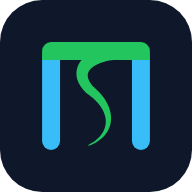
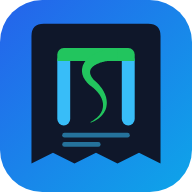
Cập nhật trang tải về v1.0.13

diff --git a/app/index.html b/app/index.html
@@ -366,6 +366,8 @@ img.tile{object-fit:cover;background:var(--surface-2)}
   'use strict';
   var COLORS = { leaf: '#22C55E', legsOnLight: '#2563EB', legsOnDark: '#38BDF8', navy: '#0F172A' };
   var BAR = 'M28 58 V46 A12 12 0 0 1 40 34 H160 A12 12 0 0 1 172 46 V58 Z';
+  // Receipt-shaped tile (logo v2: "Hoa don"), drawn in a 200x200 box; the M-T-S mark sits inside at 70%.
+  var BILL = 'M16 22Q16 6 32 6H168Q184 6 184 22V188L156 174L128 188L100 174L72 188L44 174L16 188Z';
 
   function bez(p, t) {
     var u = 1 - t;
@@ -403,12 +405,14 @@ img.tile{object-fit:cover;background:var(--surface-2)}
   // Static logo. theme: 'light' (blue legs) or 'dark' (light-blue legs).
   function svg(opts) {
     opts = opts || {};
-    var legs = opts.theme === 'dark' ? COLORS.legsOnDark : COLORS.legsOnLight;
+    var legs = COLORS.legsOnDark;   // the navy receipt tile is dark in every theme
     var size = opts.size || 40, label = opts.label || 'Missing';
+    var lines = size >= 48 ? '<rect x="56" y="148" width="88" height="6" rx="3" fill="#38BDF8" opacity=".55"/><rect x="56" y="160" width="50" height="6" rx="3" fill="#38BDF8" opacity=".55"/>' : '';
     return '<svg xmlns="http://www.w3.org/2000/svg" viewBox="0 0 200 200" width="' + size + '" height="' + size +
-      '" role="img" aria-label="' + label + '"><g transform="translate(0 -6)">' +
+      '" role="img" aria-label="' + label + '"><path d="' + BILL + '" fill="' + COLORS.navy + '"/>' +
+      '<g transform="translate(30 18) scale(.7)"><g transform="translate(0 -6)">' +
       legPath(40, legs) + legPath(160, legs) +
-      '<path d="' + BAR + '" fill="' + COLORS.leaf + '"/><path d="' + S_D + '" fill="' + COLORS.leaf + '"/></g></svg>';
+      '<path d="' + BAR + '" fill="' + COLORS.leaf + '"/><path d="' + S_D + '" fill="' + COLORS.leaf + '"/></g></g>' + lines + '</svg>';
   }
 
   /* ---------- Sound logo (Web Audio, synthesised, no files) ----------
@@ -486,6 +490,9 @@ img.tile{object-fit:cover;background:var(--surface-2)}
     tone(220, T(1660), 0.5, 0.1, 'triangle', 330);
     spin(T(1380), 0.9, 0.12); spin(T(1680), 0.85, 0.1);       // bars spin back
     tone(330, T(2550), 0.18, 0.08, 'sine');                   // bars land: little tick
+    whoosh(T(2500), 0.36, 3400, 900, 0.16);                   // receipt slides out of the printer
+    tone(2200, T(2900), 0.05, 0.05, 'square');                // two lines print
+    tone(2400, T(3050), 0.05, 0.05, 'square');
     // signature: two rising notes; the voice "Mít xinh!" follows, then a soft chord
     bell(659.25, T(2700), 0.22, 0.5);    // E5
     bell(783.99, T(2860), 0.24, 0.6);    // G5
@@ -567,10 +574,15 @@ img.tile{object-fit:cover;background:var(--surface-2)}
     overlay.setAttribute('aria-hidden', 'true');
     overlay.style.cssText = 'position:fixed;inset:0;z-index:2147483647;display:grid;place-items:center;' +
       'background:' + (opts.background || COLORS.navy) + ';cursor:pointer;';
-    var size = Math.min(240, Math.round(Math.min(innerWidth, innerHeight) * 0.42));
+    var size = Math.min(280, Math.round(Math.min(innerWidth, innerHeight) * 0.5));
     overlay.innerHTML =
-      '<svg viewBox="0 0 200 200" width="' + size + '" height="' + size + '" style="overflow:visible;transform-origin:0 0">' +
-      '<g transform="translate(0 -6)"><g class="mi-shake">' +
+      '<svg viewBox="-42.857 -25.714 285.714 285.714" width="' + size + '" height="' + size + '" style="overflow:visible;transform-origin:0 0">' +
+      '<g transform="translate(0 -6)">' +
+      '<g class="mi-bill" opacity="0"><g transform="translate(0 6) scale(1.428571) translate(-30 -18)">' +
+      '<path class="mi-billbg" d="' + BILL + '" fill="#1E293B" stroke="#38BDF8" stroke-opacity=".35" stroke-width="1.5"/>' +
+      '<rect class="mi-l1" x="56" y="148" width="88" height="6" rx="3" fill="#38BDF8" opacity="0"/>' +
+      '<rect class="mi-l2" x="56" y="160" width="50" height="6" rx="3" fill="#38BDF8" opacity="0"/>' +
+      '</g></g><g class="mi-shake">' +
       '<g class="mi-legL"><path class="mi-trailL" d="M-136 111.5 H-36" fill="none" stroke="' + legsIntro + '" stroke-width="4" stroke-linecap="round" stroke-dasharray="30 12"/>' +
       '<g class="mi-spinL">' + legPath(40, legsIntro) + '</g></g>' +
       '<g class="mi-legR"><path class="mi-trailR" d="M236 111.5 H336" fill="none" stroke="' + legsIntro + '" stroke-width="4" stroke-linecap="round" stroke-dasharray="30 12"/>' +
@@ -591,7 +603,7 @@ img.tile{object-fit:cover;background:var(--surface-2)}
       wordText.style.cssText = 'display:inline-block;white-space:nowrap;line-height:1.3;color:#F8FAFC;transform-origin:0 0;' +
         'padding-left:' + Math.round(size * 0.04) + 'px;font-family:' + ws.fontFamily + ';font-weight:' + ws.fontWeight +
         ';letter-spacing:' + (ws.letterSpacing === 'normal' ? '0' : (parseFloat(ws.letterSpacing) / parseFloat(ws.fontSize)) + 'em') +
-        ';font-size:' + Math.round(size * 0.42) + 'px;';
+        ';font-size:' + Math.round(size * 0.34) + 'px;';
       wordBox.appendChild(wordText);
       row.appendChild(wordBox);
     }
@@ -603,14 +615,15 @@ img.tile{object-fit:cover;background:var(--surface-2)}
       if (fit < 1) {
         var svgEl = row.firstChild;
         svgEl.setAttribute('width', Math.round(size * fit)); svgEl.setAttribute('height', Math.round(size * fit));
-        wordText.style.fontSize = Math.round(size * 0.42 * fit) + 'px';
+        wordText.style.fontSize = Math.round(size * 0.34 * fit) + 'px';
         wordText.style.paddingLeft = Math.round(size * 0.04 * fit) + 'px';
         wordW = wordText.getBoundingClientRect().width;
       }
     }
     var root = row.firstChild, q = function (c) { return root.querySelector('.' + c); };
     var stem = q('mi-stem'), bar = q('mi-bar'), legL = q('mi-legL'), legR = q('mi-legR'),
-        spinL = q('mi-spinL'), spinR = q('mi-spinR'), trailL = q('mi-trailL'), trailR = q('mi-trailR'), shake = q('mi-shake');
+        spinL = q('mi-spinL'), spinR = q('mi-spinR'), trailL = q('mi-trailL'), trailR = q('mi-trailR'), shake = q('mi-shake'),
+        bill = q('mi-bill'), billbg = q('mi-billbg'), l1 = q('mi-l1'), l2 = q('mi-l2');
     var N = T_POLY.length / 4, U = [], k;
     for (k = 0; k < 2 * N; k++) U.push(k < N ? k / (N - 1) : (2 * N - 1 - k) / (N - 1));
 
@@ -620,6 +633,10 @@ img.tile{object-fit:cover;background:var(--surface-2)}
       var p = seg(t, tHit, tEnd), e = easeOut(p);
       return { x: lerp(hit, 0, e) + Math.sin(Math.PI * Math.min(p * 1.4, 1)) * 46 * dir,
                y: lerp(dy, 0, e) - Math.sin(Math.PI * p) * 14, r: 90 + 630 * e };
+    }
+    function lineScale(el, x, y, sc) {
+      el.setAttribute('transform', 'translate(' + x + ' ' + y + ') scale(' + Math.max(sc, .001) + ' 1) translate(' + (-x) + ' ' + (-y) + ')');
+      el.style.opacity = sc > 0 ? .55 : 0;
     }
     function frame(t) {
       bar.setAttribute('transform', 'translate(100 46) scale(' + Math.max(easeOut(seg(t, 0, 600)), .001) + ' 1) translate(-100 -46)');
@@ -641,6 +658,12 @@ img.tile{object-fit:cover;background:var(--surface-2)}
         out[i] = lerp(T_POLY[i], S_POLY[i], m); out[i + 1] = lerp(T_POLY[i + 1], S_POLY[i + 1], m);
       }
       stem.setAttribute('d', toD(out));
+      // receipt slides up, then its two lines print
+      var bp = easeOut(seg(t, 2500, 2900));
+      bill.setAttribute('opacity', bp);
+      bill.setAttribute('transform', 'translate(0 ' + lerp(46, 0, bp) + ')');
+      lineScale(l1, 56, 148, easeOut(seg(t, 2900, 3150)));
+      lineScale(l2, 56, 160, easeOut(seg(t, 3050, 3300)));
       if (wordBox) {
         var w = easeOut(seg(t, LAND + 100, LAND + WORD));
         wordBox.style.width = (wordW * w) + 'px';
@@ -676,6 +699,7 @@ img.tile{object-fit:cover;background:var(--surface-2)}
       root.querySelectorAll('.mi-spinL path, .mi-spinR path').forEach(function (p) {
         p.style.transition = 'stroke ' + FLY + 'ms'; p.style.stroke = legsEnd;
       });
+      billbg.style.transition = 'fill ' + FLY + 'ms'; billbg.style.fill = COLORS.navy;
       var a = root.getBoundingClientRect(), b = target.getBoundingClientRect();
       var s = b.width / a.width;
       var dx = b.left - a.left, dy = b.top - a.top;

diff --git a/app/sw.js b/app/sw.js
@@ -1,5 +1,5 @@
 // Cache-first: the app shell works with no network; bump C after each update so devices fetch the new version.
-const C = 'mas-v29';
+const C = 'mas-v30';
 const SHELL = ['./', 'index.html', 'manifest.webmanifest', 'icon-192.png', 'icon-512.png'];
 self.addEventListener('install', e => { e.waitUntil(caches.open(C).then(c => c.addAll(SHELL))); self.skipWaiting(); });
 self.addEventListener('activate', e => e.waitUntil(
